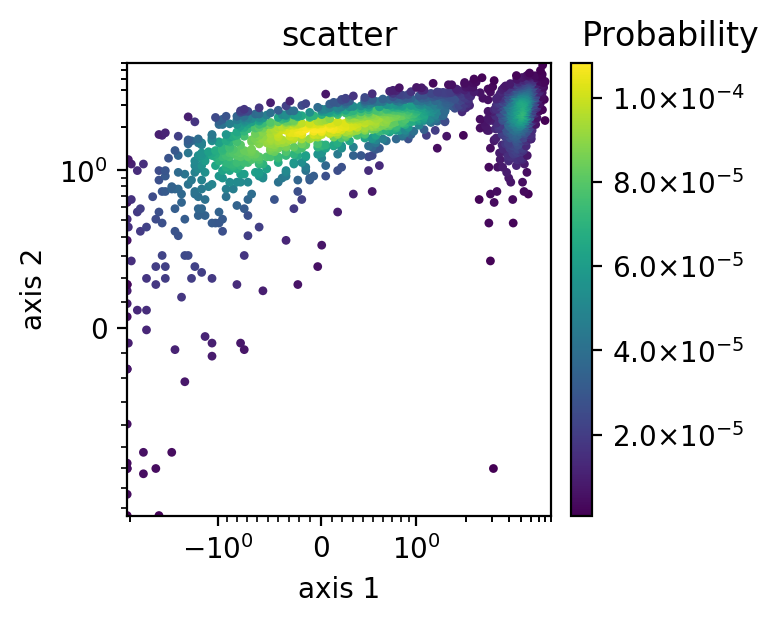
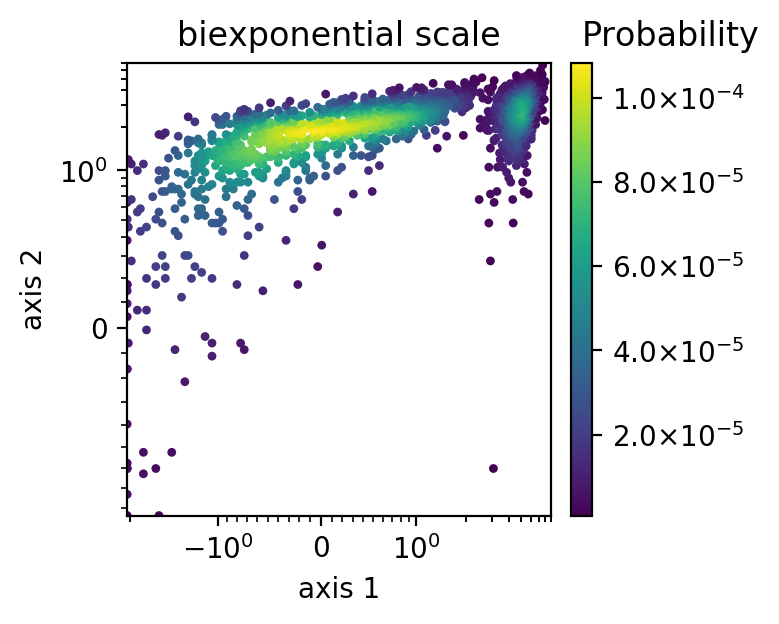
updated image titles

Changed region(s): [[0.2157, 0.0304, 0.647, 0.0913]]

diff --git a/README.md b/README.md
@@ -1,6 +1,4 @@
-<!--<img src="examples/Example_scatter.png" width="300">-->
-<!--<img src="examples/Example_scatter_biexp.png" width="300">-->
-![](examples/Example_scatter.png "Linear scale") ![](examples/Example_scatter_biexp.png "Biexponential scale")
+<img src="examples/Example_scatter.png" width="300"/> <img src="examples/Example_scatter_biexp.png" width="300"/> 
 
 # DensityPlot
 -------------------
